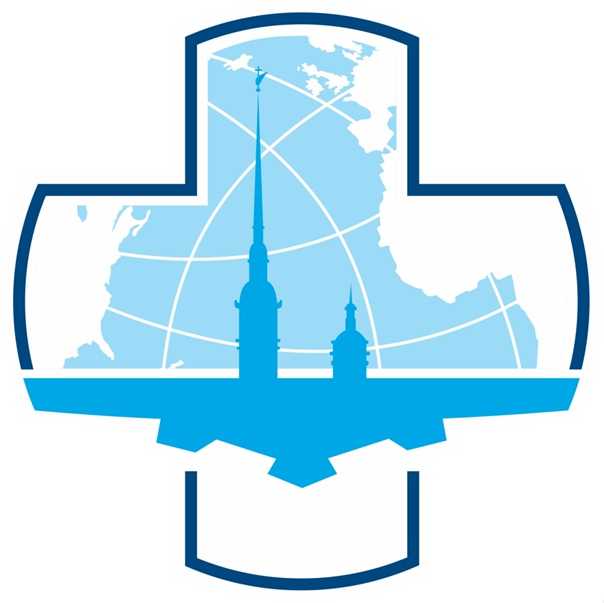
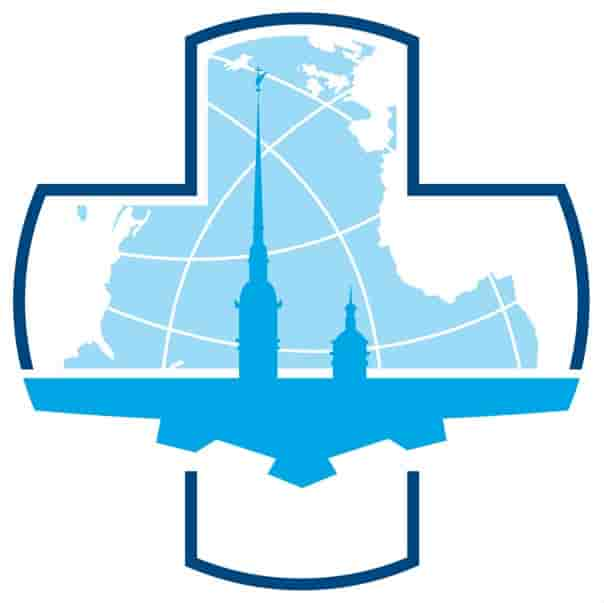
compressed imges

diff --git a/vetwebapi/vetwebfrontts/src/components/carousel/CarouselItems.tsx b/vetwebapi/vetwebfrontts/src/components/carousel/CarouselItems.tsx
@@ -13,7 +13,7 @@ export interface ICarouselItem {
 export const carouselItems: ICarouselItem[] = [
     {
         id: 1,
-        imgSrc: "/animalsBg1.jpg",
+        imgSrc: "/animalsBg.jpg",
         imgAlt: "Animals",
         title: "Владельцы Животных",
         description: "Информация о хозяйствах и регистрация владельцев животных",
@@ -22,7 +22,7 @@ export const carouselItems: ICarouselItem[] = [
 
     {
         id: 2,
-        imgSrc: "/drugsBg1.jpg",
+        imgSrc: "/drugsBg.jpg",
         imgAlt: "Drugs",
         title: "Биопрепараты",
         description: "Информация о поступлении биопрепаратов, их учет и отчетность",
@@ -31,7 +31,7 @@ export const carouselItems: ICarouselItem[] = [
 
     {
         id: 3,
-        imgSrc: "/vetworkBg1.jpg",
+        imgSrc: "/vetworkBg.jpg",
         imgAlt: "VetWork",
         title: "Противоэпизоотическая работа",
         description: "Информация о противоэпизоотических мероприятиях, их учет и отчетность",

diff --git a/vetwebapi/vetwebfrontts/src/components/footer/Footer.tsx b/vetwebapi/vetwebfrontts/src/components/footer/Footer.tsx
@@ -1,7 +1,7 @@
 import { Container } from "react-bootstrap"
 import { NavList } from "../header/navList/NavList";
 
-import styles from "./Footer.module.css"
+import styles from "./Footer.module.scss"
 
 
 
@@ -12,17 +12,12 @@ export function Footer() {
     return (
         <footer>
             <Container className={styles.footerWrap}>
-             <Container className={styles.footerContainer}>
-               <NavList/>
-         
-            </Container>
+                <Container className={styles.footerContainer}>
+                    <NavList/>
+                </Container>
              </Container>
 
         </footer>
-        
-    
-           
-
        
     )
 }

diff --git a/vetwebapi/vetwebfrontts/src/components/pages/home/homePageCard/HomePageCard.tsx b/vetwebapi/vetwebfrontts/src/components/pages/home/homePageCard/HomePageCard.tsx
@@ -10,9 +10,9 @@ interface HomePageCardProps {
 
 export function HomePageCard({item}: HomePageCardProps) {
   return (
-            <Col className={styles.cardItem}>
+            <Col>
                 <a href={item.url}>
-                    <Card className={styles.card} border="secondary">
+                    <Card className={styles.card}>
                         <Card.Img variant="top"
                             src={item.imgSrc}
                             alt={item.imgAlt}

diff --git a/vetwebapi/vetwebfrontts/src/components/footer/Footer.module.css b/vetwebapi/vetwebfrontts/src/components/footer/Footer.module.css
@@ -1,12 +1,13 @@
 .footerWrap {
-	padding: 30px;
-	background-color: #fff;
-	border-top: 1px solid grey;
-    max-width: 100%;
+  padding: 30px;
+  background-color: grey;
+  border-top: 1px solid grey;
+  opacity: 0.8;
+  max-width: 100%;
 }
 
 .footerContainer {
-    display: flex;
-	justify-content: flex-end;
-	background-color: #fff;
-}
+  display: flex;
+  justify-content: flex-end;
+  background-color: grey;
+}/*# sourceMappingURL=Footer.module.css.map */

diff --git a/vetwebapi/vetwebfrontts/src/components/pages/home/homePageCard/HomePageCard.module.css b/vetwebapi/vetwebfrontts/src/components/pages/home/homePageCard/HomePageCard.module.css
@@ -15,19 +15,16 @@
   color: rgba(0, 0, 0, 0.8);
 }
 
-.cardItem {
+.card {
+  display: flex;
   flex-direction: column;
-  align-items: center;
   padding: 10px;
   transition: transform 0.5s ease-in-out;
-  min-height: 500px;
-}
-.cardItem:hover {
-  transform: scale(1.05);
-}
-
-.card {
   height: 100%;
+  box-shadow: 5px 5px grey;
+}
+.card:hover {
+  transform: scale(1.05);
 }
 
 .cardImage {

diff --git a/vetwebapi/vetwebfrontts/src/components/pages/home/homePageCard/HomePageCard.module.scss b/vetwebapi/vetwebfrontts/src/components/pages/home/homePageCard/HomePageCard.module.scss
@@ -1,21 +1,19 @@
 @import "../../../../assets/sass/templates";
 @import "../../../../assets/sass/mixins";
 
-.cardItem {
+
+
+.card {
+	display: flex;
 	flex-direction: column;
-	align-items: center;
 	padding: 10px;
 	@include transition(transform);
-	min-height: 500px;
+	height: 100%;
+	box-shadow: 5px 5px grey;
 
 	&:hover {
 		transform: scale(1.05);
 	}
-
-}
-
-.card {
-	height: 100%;
 	
 }
 

diff --git a/vetwebapi/vetwebfrontts/src/components/companies/company-detail/CompanyDetail.tsx b/vetwebapi/vetwebfrontts/src/components/companies/company-detail/CompanyDetail.tsx
@@ -28,9 +28,9 @@ export function CompanyDetail() {
         <Row className={styles.rowTop}>
           <Col sm={8} className={styles.colImg}>
               <img
-                src="/animals2-2.png"
-                alt="animals2.png"
-              />
+                src="/animals.jpg"
+                alt="animals.jpg"
+                />
           </Col>
          
           <Col>

diff --git a/vetwebapi/vetwebfrontts/src/components/data/HomeContent.ts b/vetwebapi/vetwebfrontts/src/components/data/HomeContent.ts
@@ -5,7 +5,7 @@ import { ICardProps } from "../../interfaces/CardProps"
 export const contentData: ICardProps[] = [
     {
         id: 1,
-        imgSrc: "/vetis2.jpg",
+        imgSrc: "/vetis.jpg",
         imgAlt: "Mercury",
         cardTitle: "Ветис",
         url: "https://mercury.vetrf.ru/",

diff --git a/vetwebapi/vetwebfrontts/src/components/footer/Footer.module.scss b/vetwebapi/vetwebfrontts/src/components/footer/Footer.module.scss
@@ -1,0 +1,13 @@
+.footerWrap {
+	padding: 30px;
+	background-color: grey;
+	border-top: 1px solid grey;
+	opacity: .8;
+    max-width: 100%;
+}
+
+.footerContainer {
+    display: flex;
+	justify-content: flex-end;
+	background-color: grey;
+}

diff --git a/vetwebapi/ToDo.md b/vetwebapi/ToDo.md
@@ -3893,3 +3893,5 @@ https://everythingfonts.com/font-face
 
 # SASS <https://sass-scss.ru/>
 ## Установить расширение Live Sass Compiler для VSCode
+
+# Сжатие изображений для сайта https://squoosh.app/
